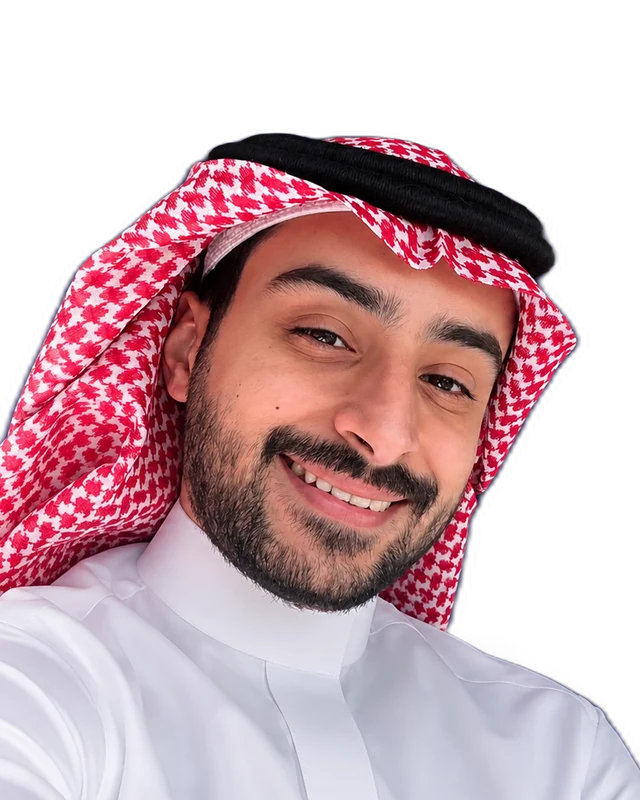
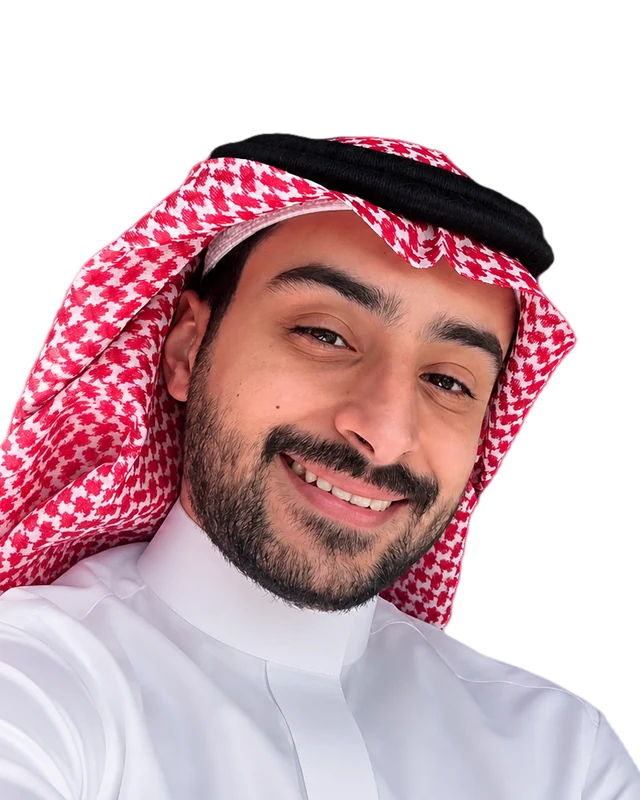
Hero photo without the dark edge; plainer header and hero
- Cut-out edges cleaned (harder mask, 2px trim, edge colours taken from the
  person instead of the old dark background), so no shadow on the card.
- Resume button in the header is text only.
- Removed the ticked credentials line from the hero.

diff --git a/src/components/site/hero.tsx b/src/components/site/hero.tsx
@@ -1,5 +1,5 @@
 import Image from "next/image";
-import { ArrowDown, Check, Mail } from "lucide-react";
+import { ArrowDown, Mail } from "lucide-react";
 import { buttonVariants } from "@/components/ui/button";
 import { t, type Lang } from "@/lib/content";
 import portrait from "@/assets/saeed.webp";
@@ -26,15 +26,6 @@ export function Hero({ lang }: { lang: Lang }) {
             <ArrowDown /> {c.seeWork}
           </a>
         </div>
-
-        {/* Quick credibility facts a CTO would otherwise only find further down */}
-        <ul className="mt-10 flex flex-wrap gap-x-6 gap-y-2 border-t pt-6 text-sm text-muted-foreground">
-          {c.credentials.map((item) => (
-            <li key={item} className="flex items-center gap-2">
-              <Check className="size-4 text-primary" /> {item}
-            </li>
-          ))}
-        </ul>
       </div>
 
       <Image

diff --git a/src/components/site/header.tsx b/src/components/site/header.tsx
@@ -1,7 +1,6 @@
 "use client";
 
 import { useEffect, useState } from "react";
-import { FileText } from "lucide-react";
 import { buttonVariants } from "@/components/ui/button";
 import { links, t, type Lang } from "@/lib/content";
 import { ThemeToggle } from "./theme-toggle";
@@ -57,7 +56,7 @@ export function Header({ lang }: { lang: Lang }) {
         {/* Resume, language switch, theme toggle */}
         <div className="flex items-center gap-1">
           <a href={links.resume} target="_blank" rel="noopener" className={buttonVariants({ variant: "outline" })}>
-            <FileText /> {c.resume}
+            {c.resume}
           </a>
           <a href={lang === "en" ? `${base}/ar/` : `${base}/`} className={buttonVariants({ variant: "ghost" })}>
             {lang === "en" ? "العربية" : "English"}

diff --git a/src/lib/content.ts b/src/lib/content.ts
@@ -259,7 +259,6 @@ export const t = {
     resume: "Resume",
     contactCta: "Get in touch",
     seeWork: "See my work",
-    credentials: ["Previously at stc", "Kubernetes certified (CKAD)", "Scrum Master certified (PSM I)"],
     workTitle: "Selected work",
     workSub: "Systems I designed and built at HUMAIN.",
     challenge: "Challenge",
@@ -288,7 +287,6 @@ export const t = {
     resume: "السيرة الذاتية",
     contactCta: "تواصل معي",
     seeWork: "استعرض أعمالي",
-    credentials: ["سابقاً في stc", "شهادة Kubernetes (CKAD)", "شهادة Scrum Master (PSM I)"],
     workTitle: "أبرز الأعمال",
     workSub: "أنظمة صممتها وبنيتها في HUMAIN.",
     challenge: "التحدي",
